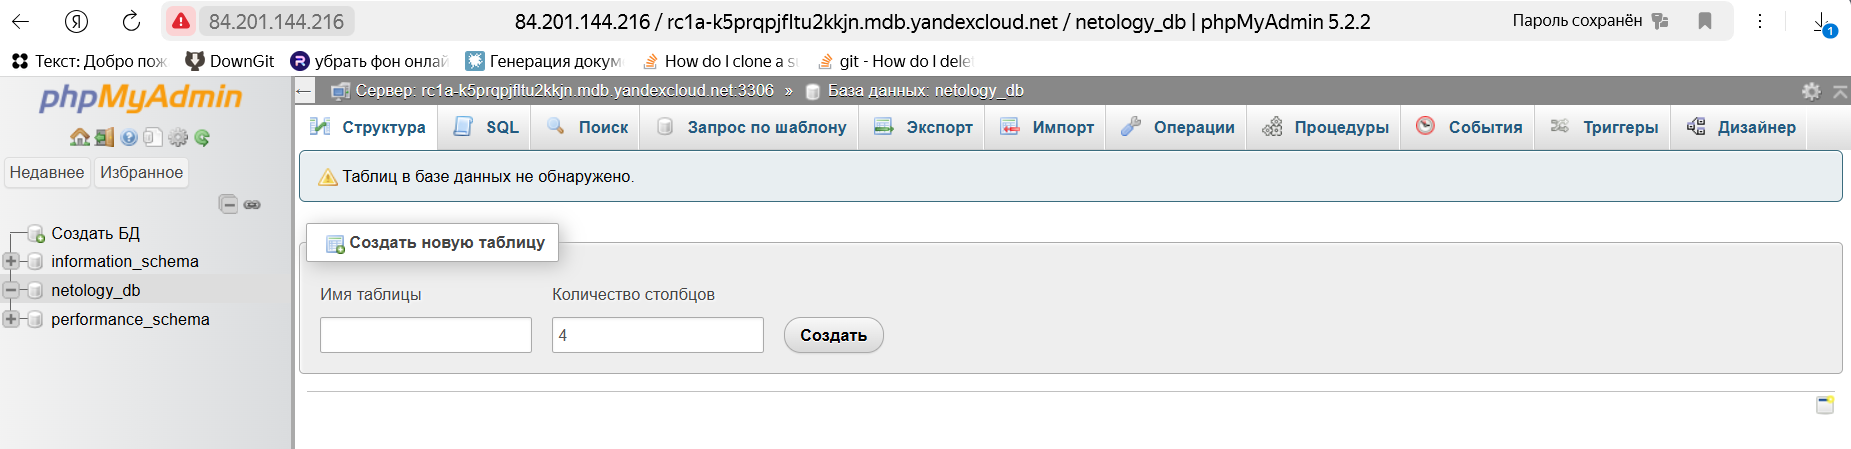
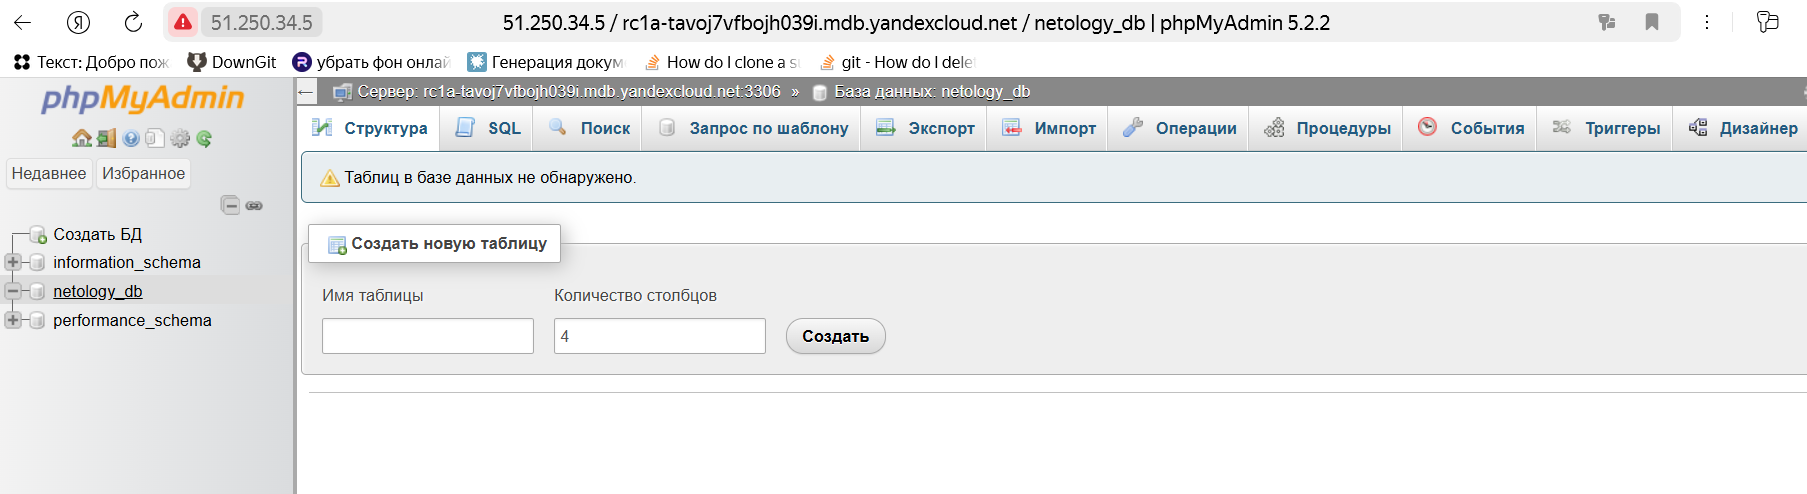
Добавление скриншотов at 8-cloudproviders-4-cluster

diff --git a/8-cloudproviders-4-cluster/readme.md b/8-cloudproviders-4-cluster/readme.md
@@ -170,7 +170,7 @@ __Результаты:__
 
     5. Проверка корректной работы сервиса
 
-    
+       ![Приложение phpmyadmin](images/phpmyadmin-02.png)
 
 
 ------
